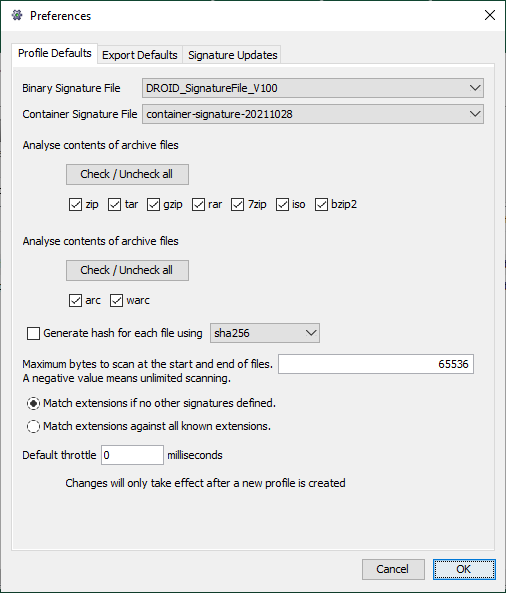
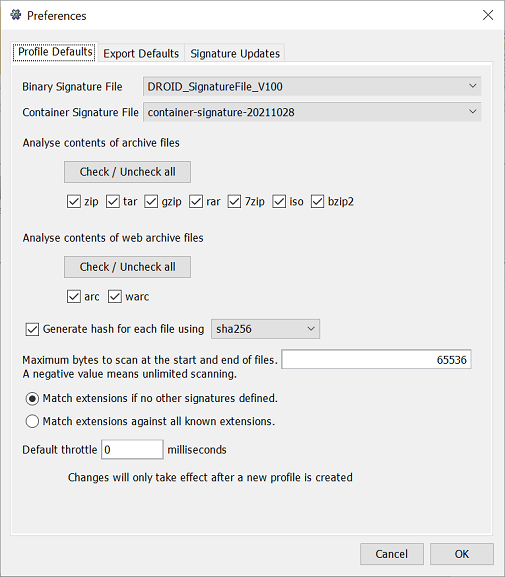
documentation updates for 6.6.1

diff --git a/droid-help/src/main/resources/Web pages/Whats New.html b/droid-help/src/main/resources/Web pages/Whats New.html
@@ -35,7 +35,7 @@
   <head>
     <meta http-equiv="Content-Type" content="text/html; charset=Cp1252">
     <meta name="generator" content="Helen">
-    <title>Whats New</title>
+    <title>What's New</title>
   </head>
   <body>
     <table width="100%" cellpadding="0" cellspacing="0" bgcolor="#555555" border="0">
@@ -65,17 +65,38 @@
       </tr>
     </table>
     <p>
+      Droid 6.6.1 offers the following fixes and improvements:
+    </p>
+    <ul>
+      <li>#898 Bugfix: Use backslash on Windows OS in no profile output</li>
+      <li>#900 Bugfix: Failure to consistently output HASH column in CSV</li>
+      <li>Updated to use latest version of Java 11 bundled JRE</li>
+      <li>#886 Bugfix: Terminology corrected on the preferences dialog</li>    </ul>
+    <p>
       Droid 6.6.0 offers the following new features:
     </p>
     <ul>
-      <li>Internal API for making droid easier to use as a dependency</li>
-      <li>Updated bundled jre to Java 11</li>
+      <li>Updated to use Java 11 as bundled JRE</li>
       <li>Improvement to ?? signature pattern</li>
+      <li>Ability to specify columns to export with the -co option, e.g. -co NAME PUID</li>
+      <li>Configure CSV to only quote if there is a comma in a field, use the -qc option</li>
+      <li>The GUI export dialog also includes column and quoting configuration options.</li>
+      <li>Write a profile straight to a CSV file, not writing to a database, using the -o output option, e.g. -o "/home/user/results.csv"</li>
+      <li>Write a profile straight to the console, by not specifying an output file or a profile to write to.</li>
+      <li>Ability to filter profiles written to CSV file or console just as for an export.</li>
+      <li>Ability to filter a more than one extensions, e.g. -F "file_ext any doc docx xls xlsx".</li>
+      <li>Filter files before they are identified on file metadata (name, extension, last modified, size), using the -ff and -FF filter options.</li>
+      <li>Set both binary and container signature files to use to override profile defaults.</li>
+      <li>Update profile defaults for both binary and container signature files</li>
       <li>Fix for inverted syntax when the bytes or ranges are inverted</li>
+      <li>Introduced semantic versioning</li>
       <li>Improved consistency across profile and no profile mode</li>
+      <li>Introduced internal API for making droid easier to use as a dependency</li>
+      <li>Code refactoring</li>
+      <li>Bug fixes</li>
     </ul>
     <p>
-      For a full list of the included changes with this version, please check the <a href="http://www.github.com/digital-preservation/droid/releases/tag/droid-6.6/">changelog</a>
+      For a full list of the included changes with this version, please check the <a href="http://www.github.com/digital-preservation/droid/releases/tag/droid-6.6.0/">changelog</a>
       <img src="../Images/Icon_External_Link.png"> on github
     </p>
   </body>
